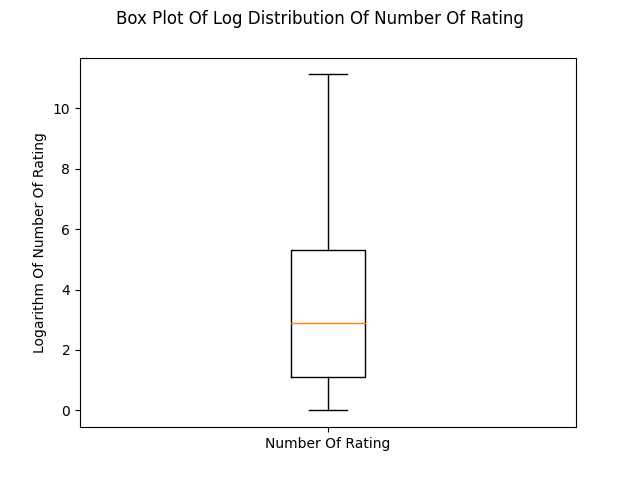
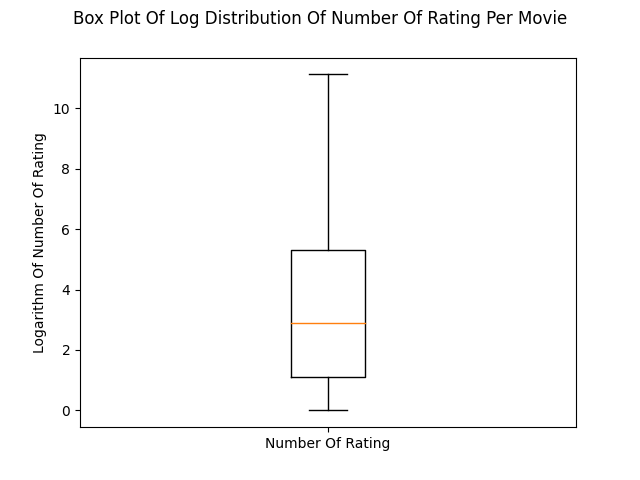
add scatterplot of movie age and number of ratings

Changed region(s): [[0.0938, 0.0, 0.9062, 0.0625]]

diff --git a/movielens_statistics.py b/movielens_statistics.py
@@ -5,6 +5,7 @@ import numpy as np
 import pandas as pd
 import pyspark.sql.functions as F
 from pyspark.sql import SparkSession
+from pyspark.sql.types import IntegerType
 
 from dataset import MovieLens20m
 from popular_movies import PopularMovies
@@ -39,7 +40,7 @@ class MovieLensStatistics:
         ]
         ax.bxp(boxes, showfliers=False)
         ax.set_ylabel("Logarithm Of Number Of Rating")
-        fig.suptitle("Box Plot Of Log Distribution Of Number Of Rating")
+        fig.suptitle("Box Plot Of Log Distribution Of Number Of Rating Per Movie")
         plt.savefig("imgs/boxplot_distribution_pf_number_of_rating.png")
         plt.close()
         return {
@@ -167,6 +168,25 @@ class MovieLensStatistics:
         plt.savefig(f"imgs/genres_distribution_for_user_{user_id}.png", bbox_inches="tight")
         plt.close()
 
+    def visualise_n_rating_and_avg_rating_scatterplot(self, current_year=2024):
+        df = self.popular_movies_df.withColumn("log_n_rating", F.log10(F.col("n_rating")))
+        df = df.withColumn("released_year", F.regexp_extract(F.col("title"), r"(?<=\()(\d+)(?=\))", 1).cast(IntegerType()))
+        df = df.withColumn("movie_age", current_year - df["released_year"])
+        df = df.filter(df.movie_age != np.nan)
+
+        # TODO: Someone help me fixed the 3 rows extracts the wrong year
+        df = df.filter(df.movie_age < 200)
+
+        df = df.select(["movieId", "title", "n_rating", "movie_age"])
+
+        df = df.toPandas()
+        plt.scatter(x=df["movie_age"], y=df["n_rating"], s=2)
+        plt.title("Scatter Plot Of Number Of Rating And Movie Age")
+        plt.xlabel("Movie Age (years)")
+        plt.ylabel("Number Of Ratings")
+        plt.savefig("imgs/scatterplot_of_n_rating_and_move_age.png", bbox_inches="tight")
+        plt.close()
+
 
 def compute_movielens_statistics(movielens20m: MovieLens20m):
     movielens_statistics = MovieLensStatistics(movielens20m)
@@ -184,6 +204,7 @@ def compute_movielens_statistics(movielens20m: MovieLens20m):
     print("genres_statistics: ", genres_statistics)
 
     movielens_statistics.visualise_genres_rating_barplot()
+    movielens_statistics.visualise_n_rating_and_avg_rating_scatterplot()
 
     movielens_statistics.rank_movies_by_number_of_rating(min_n_rating_threshold=50).show(10)
     movielens_statistics.rank_movies_by_average_rating(min_n_rating_threshold=50).show(10)

diff --git a/README.md b/README.md
@@ -102,6 +102,13 @@ Mean | 747.84
 
 <img src="imgs/boxplot_distribution_pf_number_of_rating.png">
 
+### Number Of Rating Vs Movie Age
+- Newer movies tend to have more ratings
+- Most movies tend to have few ratings
+
+<img src="imgs/scatterplot_of_n_rating_and_movie_age.png">
+
+
 ### Movie Popularity Ranking By Number Of Rating
 ```
 +-------+--------+------------------+------------------+--------------------+--------------------+
